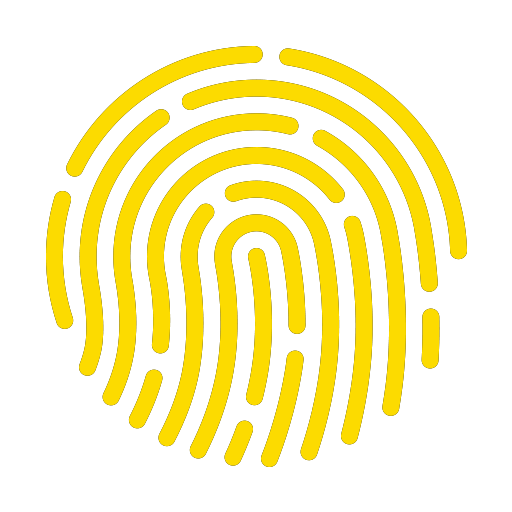
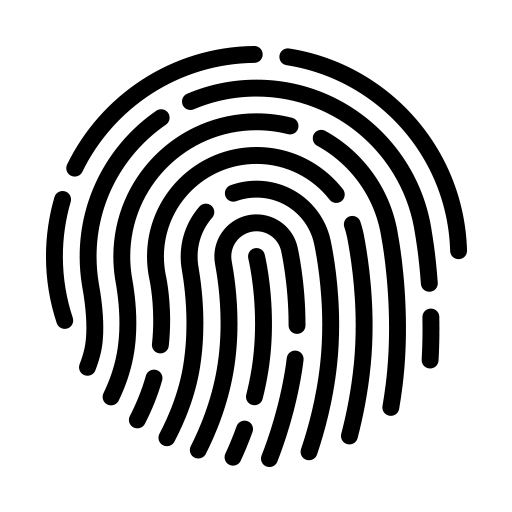
Version 1.7

Changed region(s): [[0.0625, 0.0625, 0.9375, 0.9062]]

diff --git a/index.html b/index.html
@@ -12,7 +12,7 @@
     <link rel="stylesheet" href="responsive.css">
     <script src="index.js" defer></script>
     <link rel="stylesheet" href="https://cdnjs.cloudflare.com/ajax/libs/font-awesome/6.4.2/css/all.min.css">
-    <link rel="icon" href="./img/Fingerprint.png">
+    <link rel="icon" href="./img/Fingerprint_Yellow.png">
     <link href='https://unpkg.com/boxicons@2.1.4/css/boxicons.min.css' rel='stylesheet'>
     <link rel="stylesheet"
         href="https://fonts.googleapis.com/css2?family=Material+Symbols+Outlined:opsz,wght,FILL,GRAD@20..48,100..700,0..1,-50..200" />
@@ -60,7 +60,7 @@
 
         <div id="first-page-right-sec">
             <div id="ipad">
-                <img src="./img/Fingerprint.png">
+                <img src="./img/Fingerprint_Yellow.png">
                 <label>Tinyone</label>
             </div>
         </div>

diff --git a/style.css b/style.css
@@ -49,7 +49,6 @@ header {
 }
 
 #logo img {
-    filter: brightness(0);
     height: 57px;
     margin-right: 5px;
     cursor: pointer;
